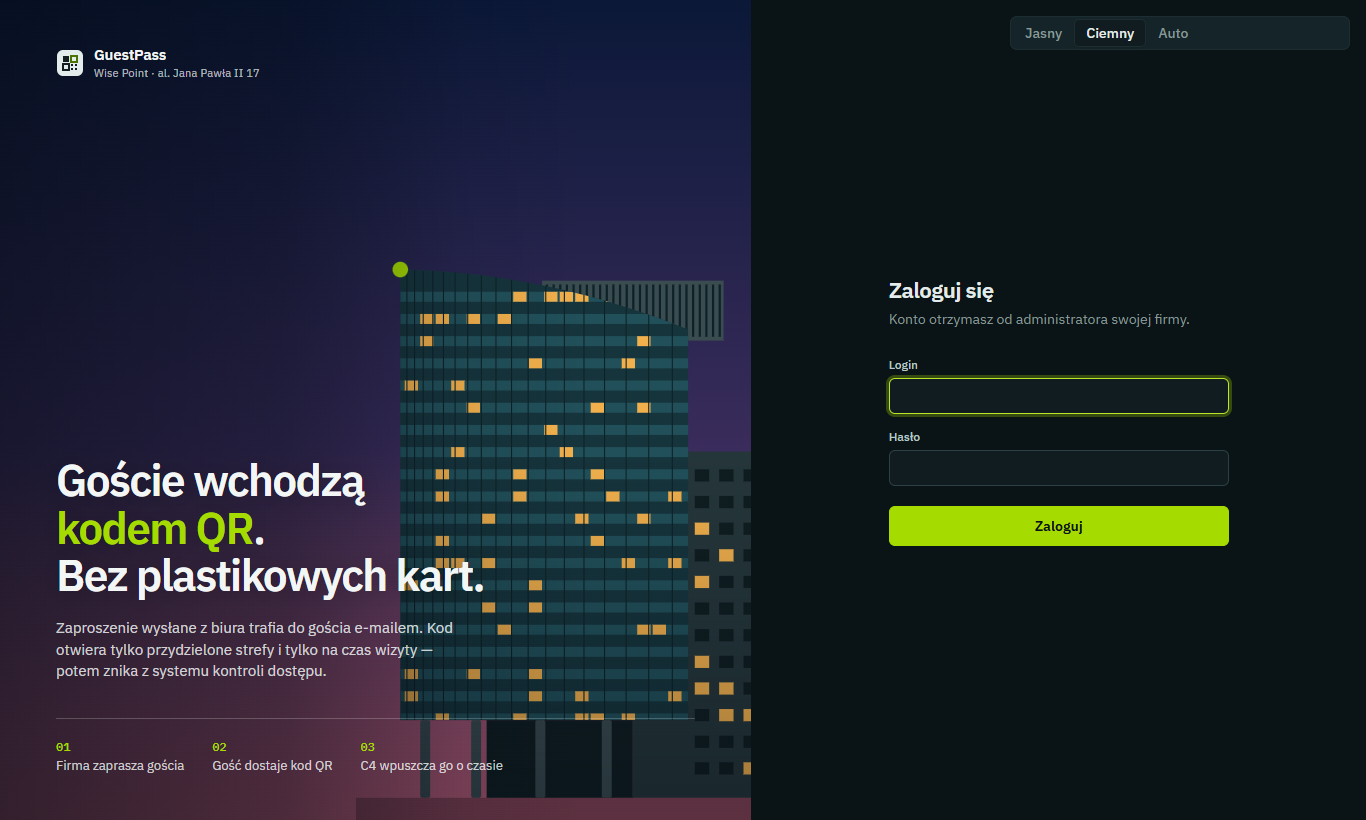
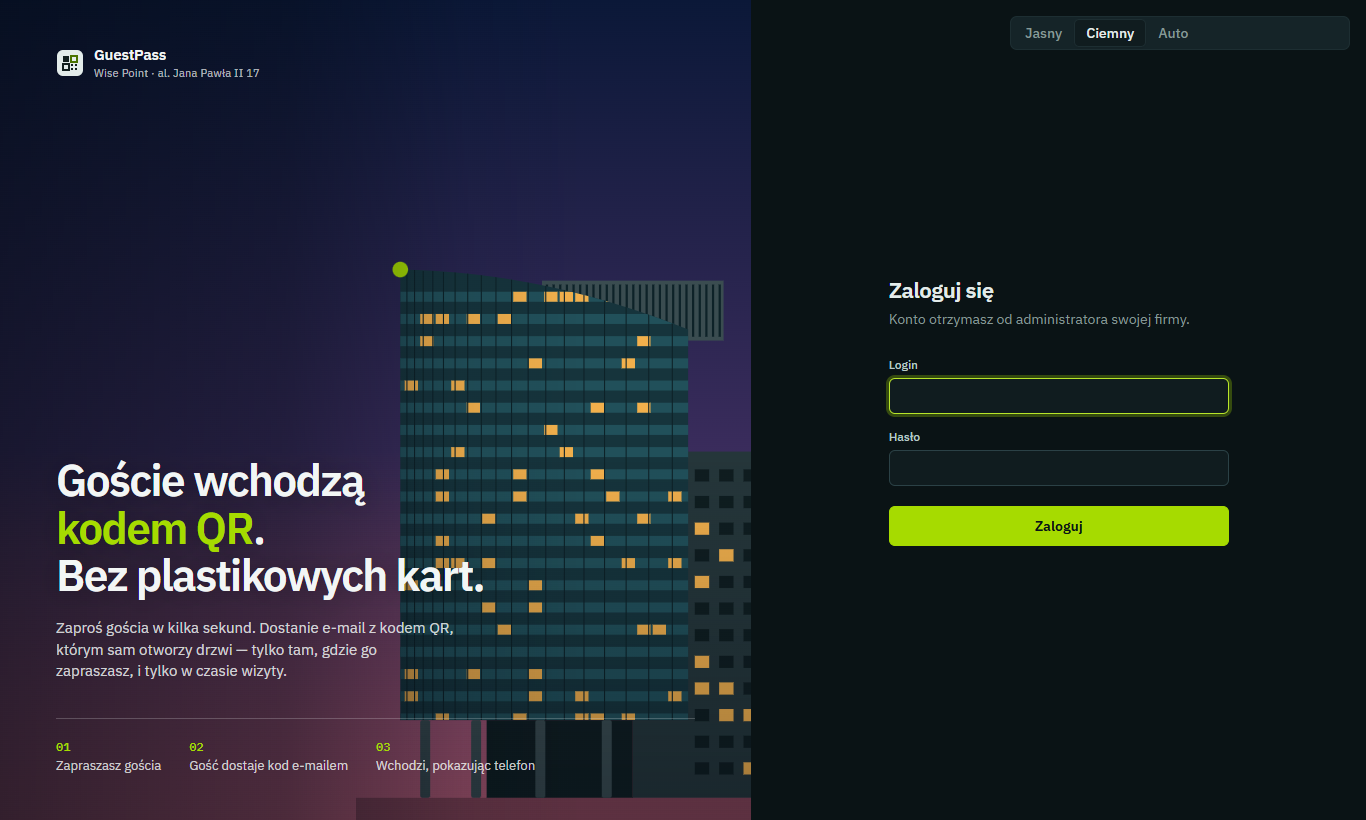
Teksty dla uzytkownikow bez nazw technicznych (C4)
- Ekran logowania: prosty opis dla zapraszajacych, kroki "Zapraszasz gościa /
  Gość dostaje kod e-mailem / Wchodzi, pokazując telefon".
- Status, podsumowanie zaproszenia, komunikaty wyjscia i cofniecia dostepu bez "C4".
- "Szczegóły problemu": zrozumiale wyjasnienie i wskazowka; szczegoly techniczne
  tylko dla administratora budynku. Wskaznik polaczenia z C4 tylko dla administratora.

Changed region(s): [[0.0307, 0.7622, 0.3382, 0.8232], [0.0307, 0.9146, 0.3997, 0.9451]]

diff --git a/src/C4GuestPass.Web/wwwroot/app.js b/src/C4GuestPass.Web/wwwroot/app.js
@@ -140,6 +140,8 @@ async function loadUsers() { S.users = S.me.canManageUsers ? await api('/users')
 
 async function checkC4() {
   const el = $('#c4state');
+  el.hidden = !S.me.isBuildingAdmin;          // stan połączenia z C4 ma znaczenie tylko dla administratora budynku
+  if (el.hidden) return;
   try {
     const h = await api('/health');
     el.innerHTML = `<span class="dot ${h.ok ? 'ok' : 'bad'}"></span><span>C4${h.mode === 'Mock' ? ' (symulacja)' : ''}: ${h.ok ? 'połączono' : 'błąd'}</span>`;
@@ -156,7 +158,7 @@ function statusOf(v) {
   if (v.checkedOutAt) return { cls: '', label: 'Wyszedł', sub: hm(v.checkedOutAt) };
   if (v.status === 'Revoked') return { cls: '', label: 'Dostęp cofnięty', sub: '' };
   if (v.status === 'Expired') return { cls: '', label: 'Wygasło', sub: v.checkedInAt ? 'bez wyjścia' : 'nie przyszedł' };
-  if (v.lastError) return { cls: 'issue', label: v.lastError.startsWith('Mail') ? 'Mail nie wysłany' : 'Błąd C4', sub: 'szczegóły w menu' };
+  if (v.lastError) return { cls: 'issue', label: v.lastError.startsWith('Mail') ? 'Mail nie wysłany' : 'Kod jeszcze nieaktywny', sub: 'szczegóły w menu' };
   if (inside(v)) return { cls: 'in', label: 'W budynku', sub: 'od ' + hm(v.checkedInAt) };
   if (v.status === 'Active') return { cls: 'active', label: 'Kod aktywny', sub: 'czeka na gościa' };
   return { cls: 'scheduled', label: 'Zaplanowana', sub: 'kod wysłany' };
@@ -259,7 +261,7 @@ async function visitAction(act, id, anchor) {
     openMenu(anchor, [
       { label: 'Pokaż kod QR', icon: I.qr, run: () => showQr(v) },
       ...(live ? [{ label: 'Wyślij e-mail ponownie', icon: I.mail, run: () => visitAction('resend', id) }] : []),
-      ...(v.lastError ? [{ label: 'Szczegóły problemu', icon: I.ban, run: () => openDialog(`<div class="d-body"><h2>Problem z wizytą</h2><p class="muted">${esc(v.lastError)}</p><p class="muted">System ponawia operacje w C4 automatycznie co 30 s.</p></div><div class="d-foot"><button class="btn" data-close>Zamknij</button></div>`) }] : []),
+      ...(v.lastError ? [{ label: 'Szczegóły problemu', icon: I.ban, run: () => showProblem(v) }] : []),
       ...(live ? ['-', { label: 'Cofnij dostęp', icon: I.ban, danger: true, run: () => confirmRevoke(v) }] : []),
     ]);
     return;
@@ -267,15 +269,25 @@ async function visitAction(act, id, anchor) {
   try {
     const updated = await api(`/visits/${id}/${act}`, { method: 'POST' });
     Object.assign(v, updated);
-    toast({ checkin: `${v.firstName} ${v.lastName} – w budynku`, checkout: `${v.firstName} ${v.lastName} wyszedł. Kod usunięty z C4.`,
+    toast({ checkin: `${v.firstName} ${v.lastName} – w budynku`, checkout: `${v.firstName} ${v.lastName} wyszedł. Kod już nie otwiera drzwi.`,
             resend: `Wysłano ponownie na ${v.email}`, revoke: `Dostęp cofnięty – kod nie otworzy już drzwi` }[act]);
     renderVisits();
   } catch (e) { toast(e.message, true); }
 }
 
+function showProblem(v) {
+  const mail = v.lastError.startsWith('Mail');
+  const text = mail
+    ? `Nie udało się wysłać e-maila z kodem na adres <b>${esc(v.email)}</b>. Sprawdź adres i wybierz z menu „Wyślij e-mail ponownie” albo pokaż gościowi kod QR na ekranie.`
+    : 'Kod gościa nie jest jeszcze aktywny w drzwiach budynku. System próbuje ponownie co pół minuty. Jeśli problem nie zniknie przed wizytą, skontaktuj się z recepcją budynku.';
+  openDialog(`<div class="d-body"><h2>${mail ? 'E-mail nie został wysłany' : 'Kod jeszcze nie działa'}</h2><p class="muted">${text}</p>
+    ${S.me.isBuildingAdmin ? `<p class="muted" style="font-size:12px">Szczegóły techniczne: <span class="mono">${esc(v.lastError)}</span></p>` : ''}</div>
+    <div class="d-foot"><button class="btn" data-close>Zamknij</button></div>`);
+}
+
 function confirmRevoke(v) {
   openDialog(`<div class="d-body"><h2>Cofnąć dostęp?</h2>
-    <p class="muted">Kod gościa <b>${esc(v.firstName)} ${esc(v.lastName)}</b> zostanie natychmiast usunięty z systemu C4 i przestanie otwierać drzwi. Tej operacji nie można odwrócić – w razie potrzeby wyślij nowe zaproszenie.</p></div>
+    <p class="muted">Kod gościa <b>${esc(v.firstName)} ${esc(v.lastName)}</b> natychmiast przestanie otwierać drzwi. Tej operacji nie można odwrócić – w razie potrzeby wyślij nowe zaproszenie.</p></div>
     <div class="d-foot"><button class="btn ghost" data-close>Anuluj</button><button class="btn destructive" id="ok">Cofnij dostęp</button></div>`,
     dlg => $('#ok', dlg).onclick = () => { dlg.close(); visitAction('revoke', v.id); });
 }
@@ -342,7 +354,7 @@ function openInvite() {
         if (isNaN(from) || isNaN(to)) { $('#sum', d).textContent = ''; return; }
         const act = new Date(+from - 30 * 6e4), deact = new Date(+to + 30 * 6e4);
         $('#sum', d).innerHTML = `Kod QR trafi ${em ? `na <b>${esc(em)}</b>` : 'na podany e-mail'} od razu po wysłaniu.
-          W systemie C4 będzie aktywny <b>${act.toLocaleDateString('pl-PL', { day: 'numeric', month: 'short' })} ${hm(act)}–${hm(deact)}</b> (30 min zapasu), potem zostanie usunięty automatycznie.`;
+          Kod otworzy drzwi <b>${act.toLocaleDateString('pl-PL', { day: 'numeric', month: 'short' })} ${hm(act)}–${hm(deact)}</b> (od 30 min przed wizytą do 30 min po niej), potem sam wygaśnie.`;
       };
       d.querySelectorAll('[data-h]').forEach(c => c.onclick = () => {
         if (c.dataset.h === 'day') { $('#from', d).value = '08:00'; $('#to', d).value = '18:00'; }

diff --git a/src/C4GuestPass.Web/wwwroot/login.html b/src/C4GuestPass.Web/wwwroot/login.html
@@ -7,11 +7,11 @@
     <svg class="facade" id="facade" viewBox="0 0 420 560" preserveAspectRatio="xMaxYMax meet" aria-hidden="true"></svg>
     <div class="brand"><img src="logo-light.svg" width="28" height="28" alt=""><div>GuestPass<small>Wise Point · al. Jana Pawła II 17</small></div></div>
     <h1>Goście wchodzą <em>kodem QR</em>.<br>Bez plastikowych kart.</h1>
-    <p>Zaproszenie wysłane z biura trafia do gościa e-mailem. Kod otwiera tylko przydzielone strefy i tylko na czas wizyty — potem znika z systemu kontroli dostępu.</p>
+    <p>Zaproś gościa w kilka sekund. Dostanie e-mail z kodem QR, którym sam otworzy drzwi — tylko tam, gdzie go zapraszasz, i tylko w czasie wizyty.</p>
     <div class="steps">
-      <div><b>01</b>Firma zaprasza gościa</div>
-      <div><b>02</b>Gość dostaje kod QR</div>
-      <div><b>03</b>C4 wpuszcza go o czasie</div>
+      <div><b>01</b>Zapraszasz gościa</div>
+      <div><b>02</b>Gość dostaje kod e-mailem</div>
+      <div><b>03</b>Wchodzi, pokazując telefon</div>
     </div>
   </section>
   <section class="form">

diff --git a/docs/INSTRUKCJA-ADMINISTRATORA.md b/docs/INSTRUKCJA-ADMINISTRATORA.md
@@ -147,8 +147,8 @@ albo *Jak w systemie*; na ekranie logowania – przełącznikiem w prawym górny
 
 | Objaw | Przyczyna | Co zrobić |
 |---|---|---|
-| Na dole menu **„C4: błąd”** | Brak połączenia z C4 albo coś w konfiguracji nie istnieje w C4 | Wejdź w *Konfiguracja C4* – ramka *Do poprawy* mówi, co poprawić. Brak połączenia: sprawdź, czy działa usługa *C4 Application Server*, i zgłoś instalatorowi. |
-| Wizyta ze statusem **„Błąd C4”** | C4 odrzucił zakładanie gościa | *⋯ → Szczegóły problemu*. GuestPass ponawia próbę co 30 s (do 10 razy). |
+| Na dole menu **„C4: błąd”** (widoczne tylko dla administratora budynku) | Brak połączenia z C4 albo coś w konfiguracji nie istnieje w C4 | Wejdź w *Konfiguracja C4* – ramka *Do poprawy* mówi, co poprawić. Brak połączenia: sprawdź, czy działa usługa *C4 Application Server*, i zgłoś instalatorowi. |
+| Wizyta ze statusem **„Kod jeszcze nieaktywny”** | C4 odrzucił zakładanie gościa | *⋯ → Szczegóły problemu* – administrator budynku widzi tam szczegóły techniczne (pracownicy firm widzą tylko proste wyjaśnienie). GuestPass ponawia próbę co 30 s (do 10 razy). |
 | „…invalid or disabled CardTypeId…” | Wybrany typ karty jest wyłączony w C4 | Włącz typ karty w C4 albo wybierz inny w *Konfiguracji C4*. |
 | „…brak włączonych typów kart…” | W C4 nie ma żadnego włączonego typu karty | Włącz typ karty (min. 40-bitowy) w C4 albo wybierz *PIN*. |
 | „…duplicate card codes…” | Taki numer karty już istnieje w C4 | Cofnij dostęp i wyślij nowe zaproszenie (nowy kod). |
